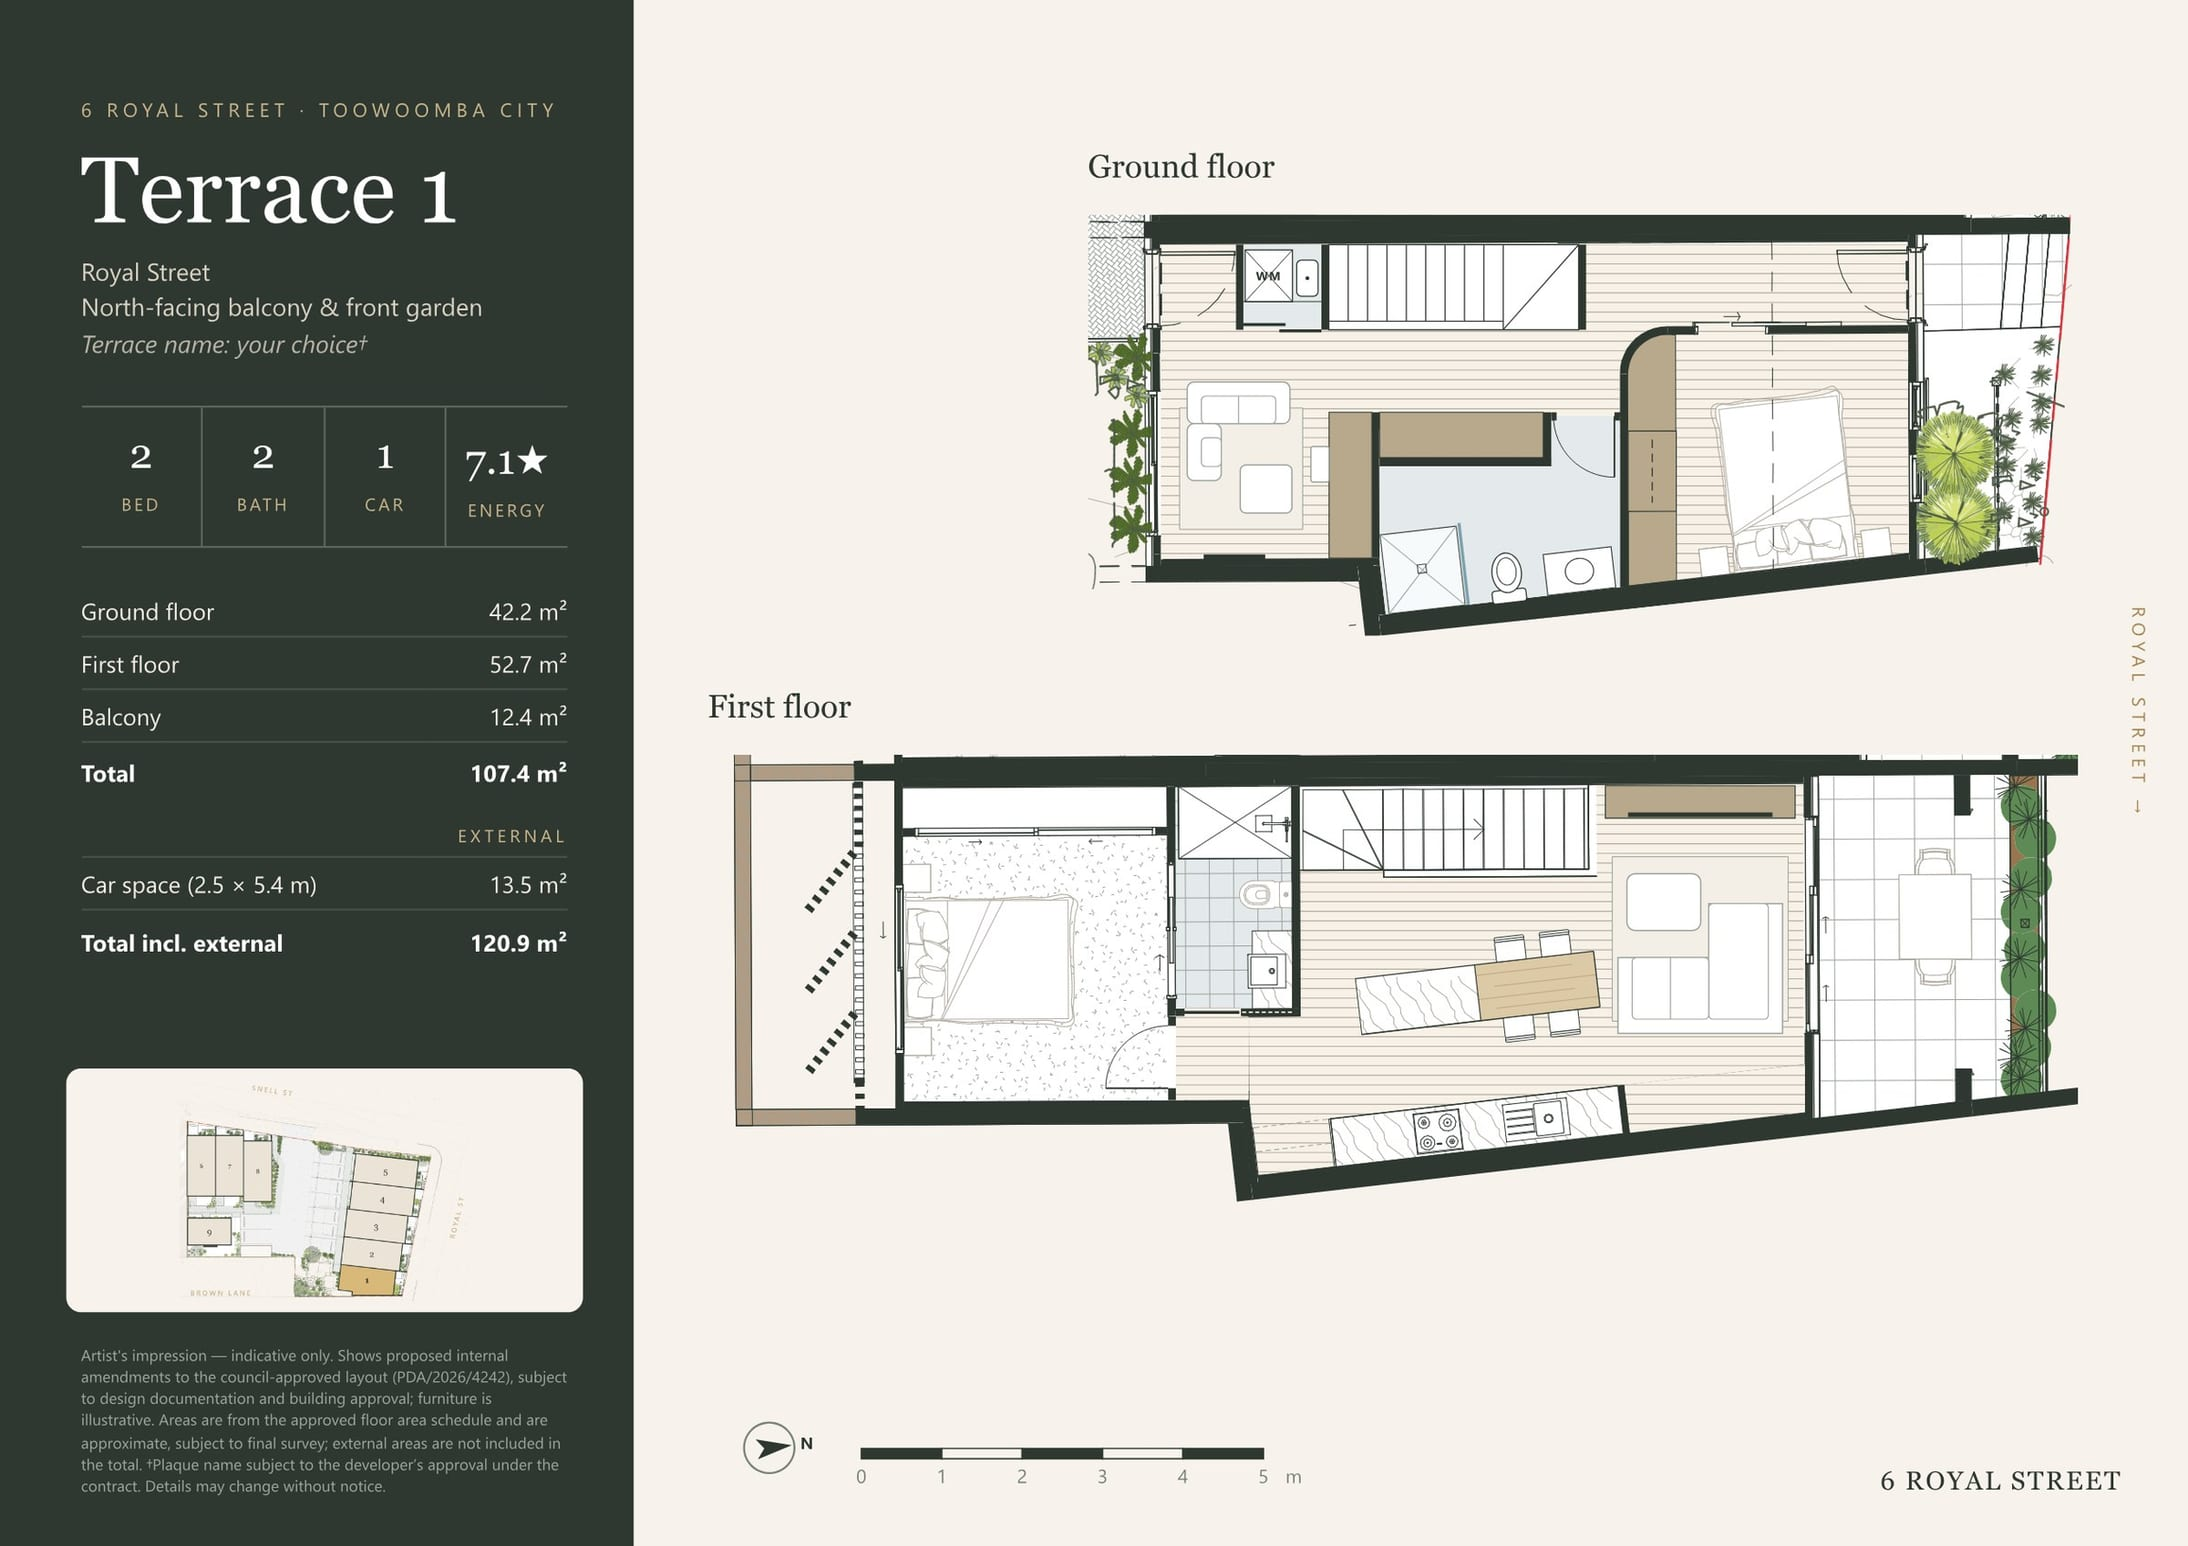
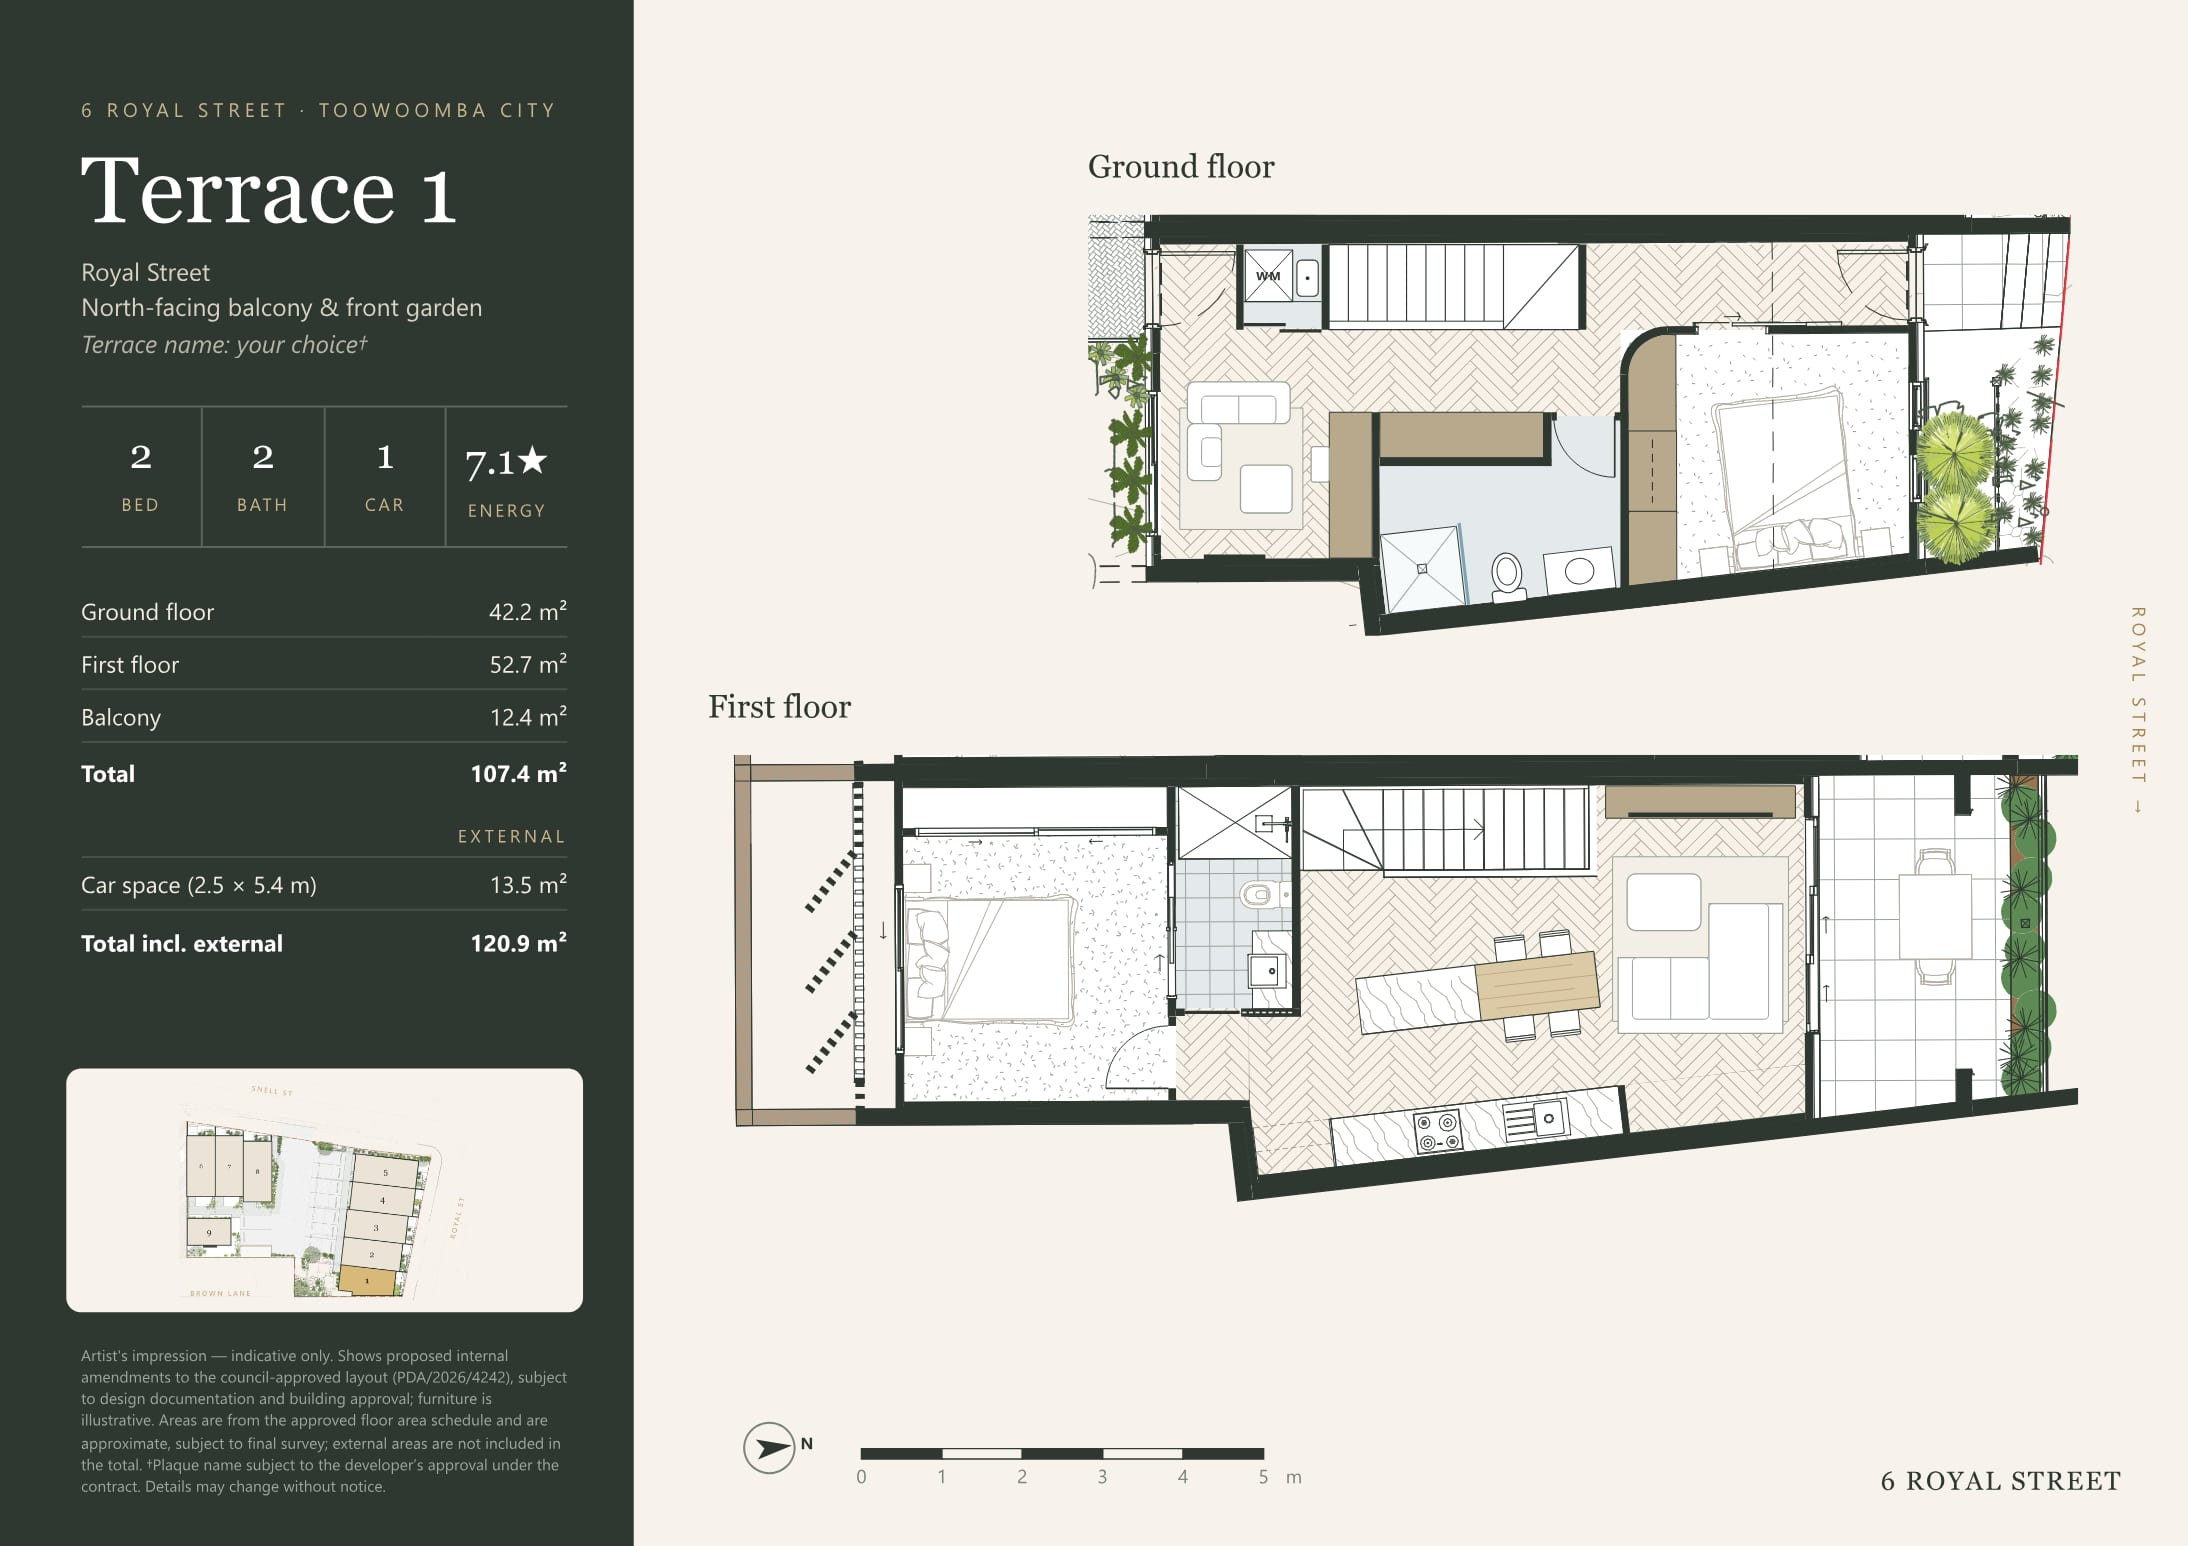
Floor plans: herringbone floors and carpeted ground-floor bedroom (draft v37)
Plan images rebuilt from the released Final floor plans (20 Oct 2026).
Plan image URLs carry ?v=20261020 so cached copies refresh; the viewer
now matches the terrace with includes() so the query string doesn't
break it.

diff --git a/index.html b/index.html
@@ -425,7 +425,7 @@ dialog::backdrop{background:rgba(8,12,10,.94)}
       <p>Ground and first floor for each home. These marketing plans show the proposed internal layout. Purchasers must review and sign the construction drawings, which take precedence.</p>
     </div>
     <div class="fptabs" id="fptabs" role="group" aria-label="Floor plan for"></div>
-    <div class="fpbox"><img id="fpimg" src="assets/plans/1.jpg" alt="Floor plan of terrace 1" data-cap="Terrace 1: floor plan"><span class="tag">Marketing plan · not a construction drawing</span></div>
+    <div class="fpbox"><img id="fpimg" src="assets/plans/1.jpg?v=20261020" alt="Floor plan of terrace 1" data-cap="Terrace 1: floor plan"><span class="tag">Marketing plan · not a construction drawing</span></div>
   </div>
 </section>
 
@@ -660,7 +660,7 @@ function pick(n){
   const u=UNITS[n-1];
   svg.querySelectorAll("polygon").forEach(p=>p.classList.toggle("on",+p.dataset.n===n));
   [fptabs,list].forEach(g=>g.querySelectorAll("button").forEach(b=>b.setAttribute("aria-pressed",+b.dataset.n===n)));
-  const fp=$("#fpimg");fp.src=`assets/plans/${n}.jpg`;fp.alt="Floor plan of "+u.name;fp.dataset.cap=u.name+": floor plan (ground and first floor)";
+  const fp=$("#fpimg");fp.src=`assets/plans/${n}.jpg?v=20261020`;fp.alt="Floor plan of "+u.name;fp.dataset.cap=u.name+": floor plan (ground and first floor)";
   sel.selectedIndex=n;
   const out=[];
   if(u.bal!=null) out.push(["Balcony",fmt(u.bal)+" m²"]);
@@ -702,7 +702,7 @@ viewer.addEventListener("keydown",e=>{if(e.key==="ArrowRight")step(1);if(e.key==
 viewer.addEventListener("click",e=>{if(e.target.classList.contains("vw")||e.target.tagName==="FIGURE")viewer.close()});
 let tx0=null;viewer.addEventListener("touchstart",e=>tx0=e.touches[0].clientX,{passive:true});
 viewer.addEventListener("touchend",e=>{if(tx0==null)return;const dx=e.changedTouches[0].clientX-tx0;if(Math.abs(dx)>50)step(dx<0?1:-1);tx0=null});
-$("#fpimg").addEventListener("click",()=>{const n=UNITS.findIndex(u=>$("#fpimg").src.endsWith(`/${u.n}.jpg`));openViewer(Math.max(0,n),UNITS.map(u=>({src:`assets/plans/${u.n}.jpg`,t:u.name,d:"Floor plan, ground and first floor",note:"Marketing plan, not a construction drawing"})))});
+$("#fpimg").addEventListener("click",()=>{const n=UNITS.findIndex(u=>$("#fpimg").src.includes(`/${u.n}.jpg`));openViewer(Math.max(0,n),UNITS.map(u=>({src:`assets/plans/${u.n}.jpg?v=20261020`,t:u.name,d:"Floor plan, ground and first floor",note:"Marketing plan, not a construction drawing"})))});
 
 /* ---------- make it yours ---------- */
 const plaqueText=$("#plaque-text"),nameIn=$("#name-in");
